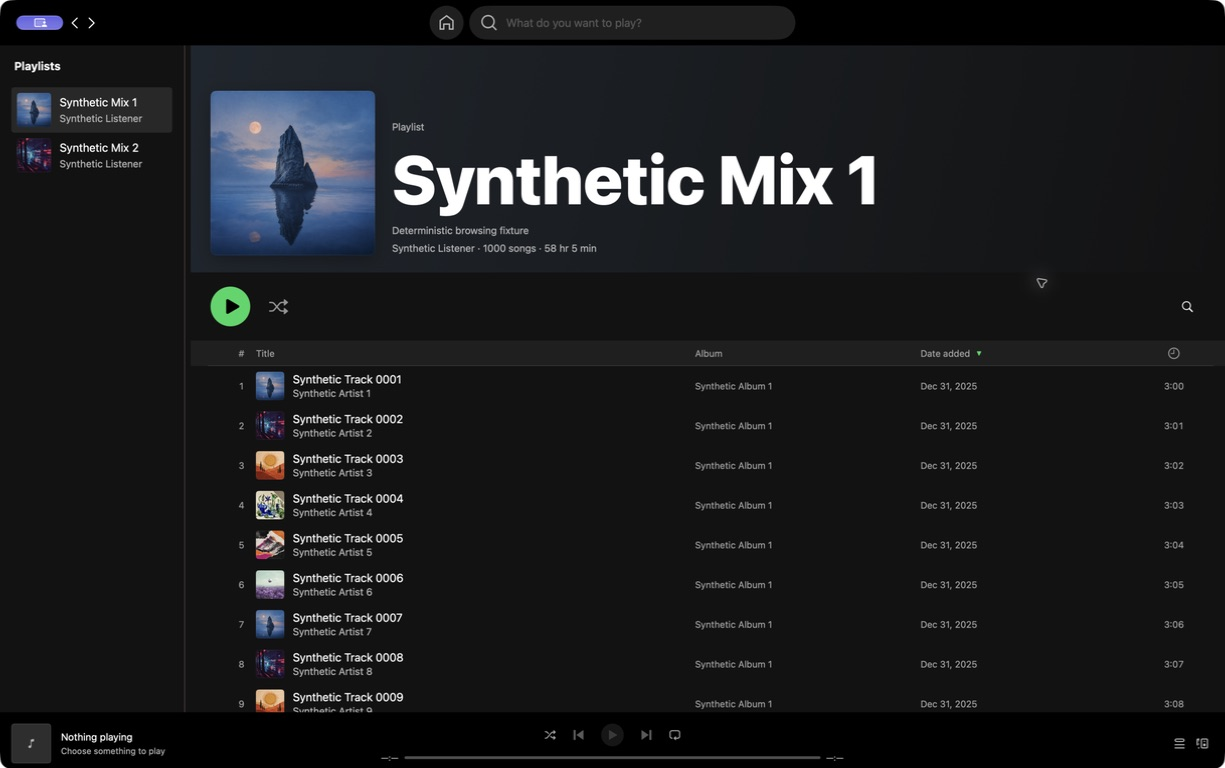
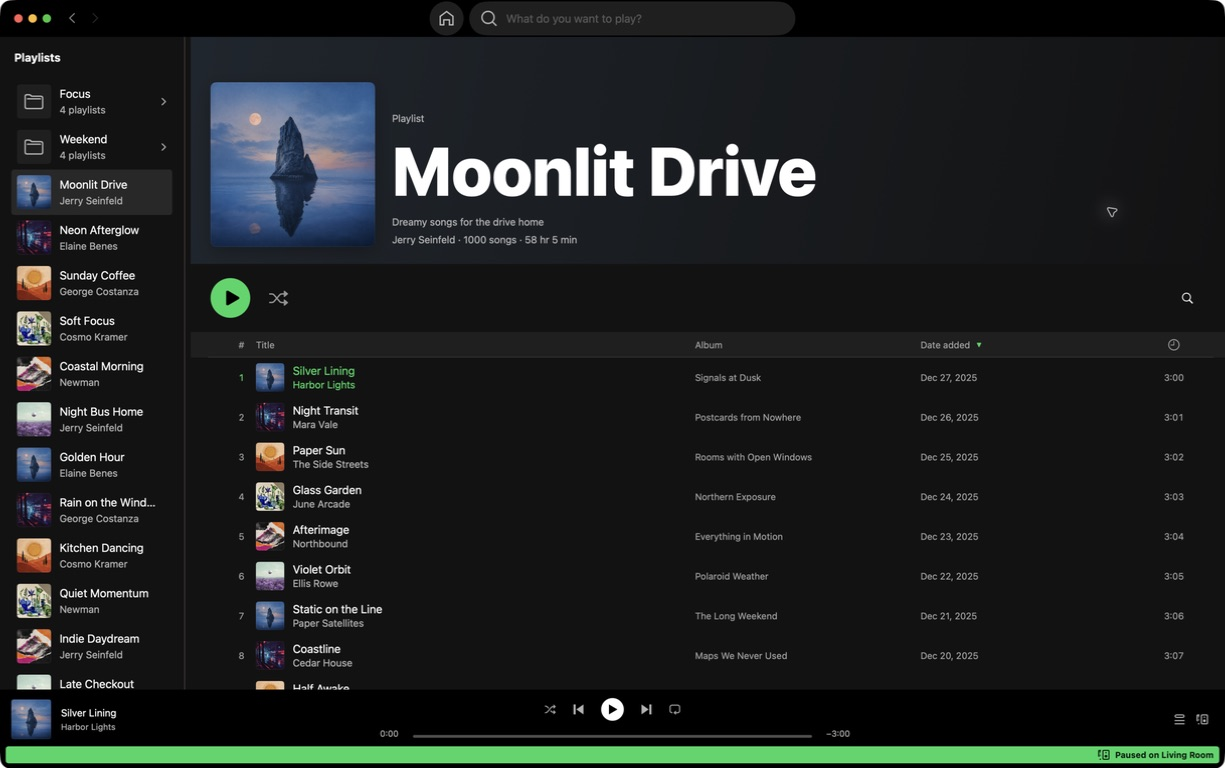
Improve demo library realism

diff --git a/Tests/BrowsingHarness/Support/BrowsingScenario.swift b/Tests/BrowsingHarness/Support/BrowsingScenario.swift
@@ -55,7 +55,7 @@ enum BrowsingFailure: Error, LocalizedError {
         switch self {
         case .invalidScenario: "Use a valid browsing, signed-out, or version-2 playback scenario."
         case .artworkResource: "Rebuild the demo with its bundled artwork resources."
-        case .unsupportedAction: "This synthetic scenario does not support that action."
+        case .unsupportedAction: "This demo does not support that action."
         case let .checkpoint(name): "Browsing checkpoint failed: \(name)."
         }
     }
@@ -66,6 +66,65 @@ struct BrowsingFixtures: Sendable {
     static let folderNames = ["Focus", "Weekend"]
     static let playlistsPerFolder = 4
     static let expandedPlaylistCount = topLevelPlaylistCount + folderNames.count * playlistsPerFolder
+    static let playlistNames = [
+        "Moonlit Drive", "Neon Afterglow", "Sunday Coffee", "Soft Focus", "Coastal Morning",
+        "Night Bus Home", "Golden Hour", "Rain on the Window", "Kitchen Dancing", "Quiet Momentum",
+        "Indie Daydream", "Late Checkout", "City in Bloom", "Analog Warmth", "Open Road",
+        "Slow Sundays", "After Work", "Fresh Air", "Midnight Radio", "Low-Key Favorites",
+        "Deep Work", "Instrumental Focus", "Morning Flow", "No Distractions", "Weekend Warm-Up",
+        "Saturday Sun", "Dinner with Friends", "Sunday Reset",
+    ]
+    static let playlistDescriptions = [
+        "Dreamy songs for the drive home", "Electric nights and glowing city streets",
+        "A slow start with something warm", "Gentle textures for an unhurried afternoon",
+        "Bright songs for open windows", "The soundtrack for watching the city pass by",
+        "Hold on to the last light", "Soft songs for grey weather", "Turn the kitchen into a dance floor",
+        "Steady energy without the noise", "Guitars, daydreams, and good company",
+        "One more song before heading downstairs", "Fresh finds with room to breathe",
+        "Warm recordings and timeless melodies", "Songs that make the miles disappear",
+        "Nothing urgent, nowhere else to be", "A clean break between work and evening",
+        "Music made for getting outside", "Songs worth staying up for", "The ones that always fit",
+        "Long stretches of uninterrupted concentration", "Words out, focus on",
+        "A clear head and an easy rhythm", "Calm sounds for getting things done",
+        "Start the weekend at full volume", "Sunshine, side streets, and nowhere to rush",
+        "Crowd-pleasers for a table full of people", "Ease into the week ahead",
+    ]
+    static let trackNames = [
+        "Silver Lining", "Night Transit", "Paper Sun", "Glass Garden", "Afterimage", "Violet Orbit",
+        "Static on the Line", "Coastline", "Half Awake", "Borrowed Time", "Northern Lights", "Slow Motion",
+        "Blue Hour", "Backseat Summer", "Familiar Streets", "Signals", "Warm Nights", "Passing Through",
+        "Open Window", "Satellite Heart", "Second Wind", "Side by Side", "Wildflower", "Stay for a While",
+        "First Light", "Out of Frame", "Long Way Home", "Tidal Lines", "Velvet Sky", "Here and Now",
+        "Easy Company", "Turning Pages", "Distant Thunder", "Under the Pines", "Little Victories", "Daybreak",
+        "Parallel Lines", "Good Intentions", "September Air", "Anywhere with You", "Last Train", "Soft Landing",
+        "Bright Side", "The Way It Goes", "Quietly Loud", "Between Stations", "New Perspective", "Home Again",
+    ]
+    static let albumNames = [
+        "Signals at Dusk", "Postcards from Nowhere", "Rooms with Open Windows", "Northern Exposure",
+        "Everything in Motion", "Polaroid Weather", "The Long Weekend", "Maps We Never Used",
+        "Small Hours", "Color Theory", "Familiar Places", "A Different Light",
+    ]
+    static let artistNames = [
+        "Harbor Lights", "Mara Vale", "The Side Streets", "June Arcade", "Northbound", "Ellis Rowe",
+        "Paper Satellites", "Cedar House", "Lena Hart", "Atlas Bloom", "Night Weather", "Theo Lane",
+    ]
+    static let listenerNames = [
+        "Jerry Seinfeld", "Elaine Benes", "George Costanza", "Cosmo Kramer", "Newman",
+    ]
+
+    static func trackName(at index: Int) -> String { trackNames[index % trackNames.count] }
+    static func albumName(at index: Int) -> String { albumNames[index % albumNames.count] }
+    static func artistName(at index: Int) -> String { artistNames[index % artistNames.count] }
+    static func listenerName(at index: Int) -> String { listenerNames[index % listenerNames.count] }
+
+    static func addedAt(playlistIndex: Int, trackIndex: Int) -> String {
+        let ordinal = (trackIndex + playlistIndex * 13) % 1_344
+        let year = 2025 - ordinal / 336
+        let dayOfYear = ordinal % 336
+        let month = 12 - dayOfYear / 28
+        let day = 28 - dayOfYear % 28
+        return String(format: "%04d-%02d-%02dT00:00:00Z", year, month, day)
+    }
 
     let playlists: [PathfinderPlaylist]
     let details: [String: PathfinderPlaylistUnion]
@@ -99,10 +158,12 @@ struct BrowsingFixtures: Sendable {
         let playlistCount = scenario.expandedLibrary == true ? Self.expandedPlaylistCount : 2
         let records: [[String: Any]] = (0..<playlistCount).map { index in
             [
-                "uri": "spotify:playlist:synthetic\(index)", "name": "Synthetic Mix \(index + 1)",
-                "description": "Deterministic browsing fixture",
+                "uri": "spotify:playlist:synthetic\(index)", "name": Self.playlistNames[index],
+                "description": Self.playlistDescriptions[index],
                 "images": ["items": [image(index)]],
-                "ownerV2": ["data": ["name": "Synthetic Listener", "uri": "spotify:user:synthetic"]],
+                "ownerV2": [
+                    "data": ["name": Self.listenerName(at: index), "uri": "spotify:user:synthetic\(index)"]
+                ],
             ]
         }
         playlists = try records.map { try Self.decode(PathfinderPlaylist.self, $0) }
@@ -112,14 +173,14 @@ struct BrowsingFixtures: Sendable {
             let items: [[String: Any]] = (0..<scenario.trackCount).map { index in
                 [
                     "uid": "occurrence-\(playlistIndex)-\(index)",
-                    "addedAt": ["isoString": "2026-01-01T00:00:00Z"],
+                    "addedAt": ["isoString": Self.addedAt(playlistIndex: playlistIndex, trackIndex: index)],
                     "itemV2": [
                         "data": [
                             "uri": "spotify:track:synthetic\(playlistIndex)x\(index)",
-                            "name": String(format: "Synthetic Track %04d", Int32(index + 1)),
+                            "name": Self.trackName(at: index),
                             "trackDuration": ["totalMilliseconds": 180_000 + index % 60 * 1_000],
-                            "albumOfTrack": ["name": "Synthetic Album \(index / 12 + 1)", "coverArt": image(index)],
-                            "artists": ["items": [["profile": ["name": "Synthetic Artist \(index % 12 + 1)"]]]],
+                            "albumOfTrack": ["name": Self.albumName(at: index), "coverArt": image(index)],
+                            "artists": ["items": [["profile": ["name": Self.artistName(at: index)]]]],
                         ]
                     ],
                 ]
@@ -131,13 +192,13 @@ struct BrowsingFixtures: Sendable {
         home = try Self.decode(
             PathfinderHome.self,
             [
-                "__typename": "HomeResponsePayload", "greeting": ["transformedLabel": "Synthetic browsing"],
+                "__typename": "HomeResponsePayload", "greeting": ["transformedLabel": "Good afternoon"],
                 "sectionContainer": [
                     "sections": [
                         "items": [
                             [
                                 "uri": "spotify:section:synthetic",
-                                "data": ["title": ["transformedLabel": "Repeatable library"]],
+                                "data": ["title": ["transformedLabel": "Made for the moment"]],
                                 "sectionItems": [
                                     "items": records.map {
                                         ["content": ["__typename": "PlaylistResponseWrapper", "data": $0]]

diff --git a/Tests/BrowsingHarness/Support/SyntheticPlayback.swift b/Tests/BrowsingHarness/Support/SyntheticPlayback.swift
@@ -243,13 +243,13 @@ final class SyntheticPlayback: @unchecked Sendable {
                 devices: RustDevicesState(
                     revision: revision, sessionGeneration: generation, activeDeviceID: activeID,
                     devices: [
-                        ConnectProtocolDevice(id: Self.localID, name: "Spotty Demo", type: "computer"),
-                        ConnectProtocolDevice(id: Self.remoteID, name: "Demo Speaker", type: "speaker"),
+                        ConnectProtocolDevice(id: Self.localID, name: "Jerry's MacBook", type: "computer"),
+                        ConnectProtocolDevice(id: Self.remoteID, name: "Living Room", type: "speaker"),
                     ]),
                 connection: RustConnectionState(
                     revision: revision, sessionGeneration: generation,
                     sessionConnected: connected, spircReady: connected, isActiveDevice: activeID == Self.localID,
-                    resumePending: false, lastError: connected ? nil : "Synthetic disconnect", deviceID: Self.localID),
+                    resumePending: false, lastError: connected ? nil : "Speaker disconnected", deviceID: Self.localID),
                 playback: playbackLocked(), queue: queueLocked()))
     }
 }

diff --git a/Tests/BrowsingHarness/Support/BrowsingWorld.swift b/Tests/BrowsingHarness/Support/BrowsingWorld.swift
@@ -121,8 +121,8 @@ final class BrowsingWorld: AccountSession, CatalogProviding, PlaylistMutating, T
         }
         let suffix = uri.split(separator: "x").last.flatMap { Int($0) } ?? 0
         return SpotifyConnectTrackMetadata(
-            uri: uri, title: String(format: "Synthetic Track %04d", Int32(suffix + 1)),
-            artist: "Synthetic Artist \(suffix % 12 + 1)",
+            uri: uri, title: BrowsingFixtures.trackName(at: suffix),
+            artist: BrowsingFixtures.artistName(at: suffix),
             artworkURL: fixtures.artworkURLs[suffix % fixtures.artworkURLs.count],
             duration: 180)
     }
@@ -173,7 +173,7 @@ final class BrowsingWorld: AccountSession, CatalogProviding, PlaylistMutating, T
     }
 
     func profile() async throws -> PathfinderProfile {
-        PathfinderProfile(username: "synthetic", name: "Synthetic Listener", uri: "spotify:user:synthetic", avatar: nil)
+        PathfinderProfile(username: "synthetic", name: "Jerry Seinfeld", uri: "spotify:user:synthetic", avatar: nil)
     }
     func playlist(id: String) async throws -> PathfinderPlaylistUnion {
         record("playlist.\(id)")

diff --git a/Tests/BrowsingHarness/Support/BrowsingApplication.swift b/Tests/BrowsingHarness/Support/BrowsingApplication.swift
@@ -114,7 +114,7 @@ final class BrowsingRun {
     let player: PlaybackStore
     let navigation = CatalogNavigation()
     @ObservationIgnored private var workload: Task<Void, Never>?
-    var status = "Preparing synthetic browsing"
+    var status = "Preparing your library"
     @ObservationIgnored private var responsiveness: BrowsingResponsiveness?
     @ObservationIgnored private var playbackClock: Task<Void, Never>?
     @ObservationIgnored private var playbackCheckpoints: [PlaybackTraceCheckpoint] = []
